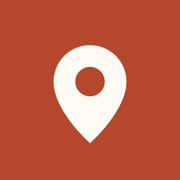
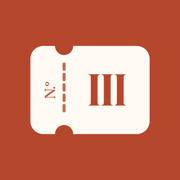
Pruebas 2026-10-24 14:38

Changed region(s): [[0.1667, 0.25, 0.8333, 0.8056]]

diff --git a/index.html b/index.html
@@ -516,12 +516,22 @@ const IC_LISTA='<svg viewBox="0 0 32 32" fill="none" stroke="currentColor" strok
 const IC_LUG='<svg viewBox="0 0 32 32" fill="none" stroke="currentColor" stroke-width="1.8" stroke-linecap="round" stroke-linejoin="round" aria-hidden="true"><path d="M4 12 16 4l12 8zM7 14v10M13 14v10M19 14v10M25 14v10M4 26h24"/></svg>';
 const IC_ESP='<svg viewBox="0 0 32 32" fill="none" stroke="currentColor" stroke-width="1.8" stroke-linecap="round" stroke-linejoin="round" aria-hidden="true"><path d="M16 4C9 4 4 9 4 15c0 5 3.5 8 8 8h2a2.5 2.5 0 0 1 2 4c-.5 1 .2 2 1.5 2C24 29 28 24 28 16 28 9 23 4 16 4z"/><circle cx="10.5" cy="14" r="1.4"/><circle cx="15" cy="10" r="1.4"/><circle cx="21" cy="11" r="1.4"/></svg>';
 const IC_PIN='<svg viewBox="0 0 24 24" fill="none" stroke="currentColor" stroke-width="1.9" stroke-linecap="round" stroke-linejoin="round" aria-hidden="true"><path d="M12 21s-7-6.2-7-11.5A7 7 0 0 1 19 9.5C19 14.8 12 21 12 21z"/><circle cx="12" cy="9.5" r="2.5"/></svg>';
+const IC_VIN='<svg viewBox="0 0 32 32" fill="none" stroke="currentColor" stroke-width="1.8" stroke-linecap="round" stroke-linejoin="round" aria-hidden="true"><circle cx="16" cy="16" r="11"/><circle cx="16" cy="16" r="3.2"/><path d="M8.5 12a9 9 0 0 1 5-3.800" opacity=".7"/></svg>';
+const IC_GAL='<svg viewBox="0 0 32 32" fill="none" stroke="currentColor" stroke-width="1.8" stroke-linecap="round" stroke-linejoin="round" aria-hidden="true"><rect x="5" y="6" width="22" height="20" rx="1.5"/><rect x="9" y="10" width="14" height="12"/><path d="M9 20l4.500-4.500 3 3 2.500-2.500 4 4"/></svg>';
+const IC_OBR='<svg viewBox="0 0 32 32" fill="none" stroke="currentColor" stroke-width="1.8" stroke-linecap="round" stroke-linejoin="round" aria-hidden="true"><rect x="8" y="5" width="16" height="12" rx="1"/><path d="M16 17V28M16 17l-6 11M16 17l6 11M12 10h5"/></svg>';
+const IC_FUN='<svg viewBox="0 0 32 32" fill="none" stroke="currentColor" stroke-width="1.8" stroke-linecap="round" stroke-linejoin="round" aria-hidden="true"><path d="M4 6h24"/><path d="M6 6c0 8-1 14-2 20h9c0-6 1-12 2-20M26 6c0 8 1 14 2 20h-9c0-6-1-12-2-20"/></svg>';
+const IC_CAR='<svg viewBox="0 0 32 32" fill="none" stroke="currentColor" stroke-width="1.8" stroke-linecap="round" stroke-linejoin="round" aria-hidden="true"><rect x="6" y="4" width="20" height="24" rx="1"/><rect x="9" y="7" width="14" height="18"/><path d="M12 12h8M12 16h8M12 20h5"/></svg>';
+const IC_JUK='<svg viewBox="0 0 32 32" fill="none" stroke="currentColor" stroke-width="1.8" stroke-linecap="round" stroke-linejoin="round" aria-hidden="true"><rect x="5" y="5" width="22" height="22" rx="6"/><path d="M9 11h14M9 16h14M9 21h14"/><circle cx="11" cy="11" r="1" fill="currentColor"/><circle cx="21" cy="16" r="1" fill="currentColor"/><circle cx="14" cy="21" r="1" fill="currentColor"/></svg>';
+const CART_SKIN={boleto:["Cartelera",null],vinilo:["Lado A","IC_VIN"],lienzo:["Galería","IC_GAL"],claro:["Obras","IC_OBR"],telon:["Funciones","IC_FUN"],afiche:["Carteles","IC_CAR"],jukebox:["Selección","IC_JUK"]};
+const ICS={IC_VIN,IC_GAL,IC_OBR,IC_FUN,IC_CAR,IC_JUK};
+const nomCart=()=>(CART_SKIN[state.skin]||CART_SKIN.boleto)[0];
+function icoCart(){ const n=(CART_SKIN[state.skin]||[])[1]; return n?ICS[n]:IC_LISTA; }
 function pintaTabs(){
   const nav=document.getElementById("tabs");
   if(!MAPA){ nav.hidden=true; return; }
   nav.hidden=false;
   nav.classList.add("conic");
-  nav.innerHTML=[["cartelera","Cartelera",IC_LISTA],["mapa","Mapa",IC_PIN],["lugares","Lugares",IC_LUG],["espacio","Mi espacio",IC_ESP]].map(([k,l,ic])=>`<button type="button" data-t="${k}"${state.tab===k?' aria-current="page"':""}>${ic}<span>${l}</span></button>`).join("");
+  nav.innerHTML=[["cartelera",nomCart(),icoCart()],["mapa","Mapa",IC_PIN],["lugares","Lugares",IC_LUG],["espacio","Mi espacio",IC_ESP]].map(([k,l,ic])=>`<button type="button" data-t="${k}"${state.tab===k?' aria-current="page"':""}>${ic}<span>${l}</span></button>`).join("");
   nav.querySelectorAll("button").forEach(b=>b.onclick=()=>irTab(b.dataset.t));
 }
 function irTab(t){
@@ -955,7 +965,7 @@ function pintaHero(){
   const h=document.getElementById("hero"), cab=document.getElementById("cab");
   const enCart=!MAPA||state.tab==="cartelera";
   let clave="", datos=null;
-  if(enCart){ const c=HERO_CAT[EF.cat]; if(c) datos=c; else if(state.skin==="vinilo") datos=["disco","Lado A","Cartelera"]; else if(state.skin==="claro") datos=["lienzo","Luz y sombra","Cartelera"]; else if(state.skin==="afiche") datos=["teatro","Gran temporada","Cartelera"]; else if(state.skin==="lienzo") datos=["lienzo","Esta semana","Cartelera"]; else if(state.skin==="telon") datos=["teatro","Temporada","Cartelera"]; }
+  if(enCart){ const c=HERO_CAT[EF.cat]; if(c) datos=c; else if(state.skin==="vinilo") datos=["disco","Cara A",nomCart()]; else if(state.skin==="claro") datos=["lienzo","Luz y sombra",nomCart()]; else if(state.skin==="afiche") datos=["teatro","Gran temporada",nomCart()]; else if(state.skin==="lienzo") datos=["lienzo","Esta semana",nomCart()]; else if(state.skin==="telon") datos=["teatro","Temporada",nomCart()]; }
   clave=datos?datos.join("|"):"";
   cab.classList.toggle("conhero",!!datos); h.hidden=!datos;
   if(clave===HERO_KEY) return; HERO_KEY=clave;
@@ -1105,7 +1115,7 @@ const MARCAS={
   monograma:(a,b)=>`<svg viewBox="0 0 120 120" aria-hidden="true"><circle cx="60" cy="60" r="46" fill="none" stroke="${a}" stroke-width="5"/><circle cx="60" cy="60" r="38" fill="none" stroke="${a}" stroke-width="1.5" stroke-dasharray="2 4"/><text x="45" y="77" text-anchor="middle" font-family="ui-serif,Georgia,serif" font-weight="700" font-size="50" fill="${a}">T</text><text x="76" y="80" text-anchor="middle" font-family="ui-serif,Georgia,serif" font-weight="700" font-size="44" fill="${a}" opacity=".85">L</text></svg>`,
   golpes:(a,b)=>`<svg viewBox="0 0 120 120" aria-hidden="true"><rect x="14" y="30" width="92" height="64" rx="13" fill="${a}"/><g fill="${b}"><rect x="28" y="62" width="10" height="20" rx="5"/><rect x="44" y="52" width="10" height="30" rx="5"/><rect x="60" y="42" width="10" height="40" rx="5"/></g><path d="M79 54a12 12 0 0 1 0 20" stroke="${b}" stroke-width="4" stroke-linecap="round" fill="none"/><path d="M89 46a22 22 0 0 1 0 36" stroke="${b}" stroke-width="3.5" stroke-linecap="round" fill="none" opacity=".7"/></svg>`
 };
-const MARCA_SKIN={boleto:"boleto",vinilo:"golpes",jukebox:"golpes",lienzo:"arco",claro:"monograma",afiche:"monograma",telon:"telon"};
+const MARCA_SKIN={};   // logo oficial único: Boleto III en todos los skins
 function pintaMarca(){
   const k=MARCA_SKIN[state.skin]||"boleto", mk=document.getElementById("mk"); if(!mk) return;
   mk.innerHTML=MARCAS[k](css("--acc")||"#B4472C", css("--bg")||"#F5EFE4");
@@ -1228,7 +1238,7 @@ function render(){
   EF=efectivos();
   { const tb=MAPA?state.tab:"cartelera";
     document.getElementById("semana").textContent=tb==="lugares"?"Recintos con función próxima":tb==="mapa"?"Panoramas cerca de ti":"Semana del "+fmt(HOY)+" al "+fmt(sumar(HOY,6));
-    document.getElementById("titulo").textContent=tb==="lugares"?"Dónde hay función":tb==="mapa"?"Mapa":tb==="espacio"?"Mi espacio":"Cartelera"; if(tb==="espacio") document.getElementById("semana").textContent="Solo en este dispositivo"; }
+    document.getElementById("titulo").textContent=tb==="lugares"?"Dónde hay función":tb==="mapa"?"Mapa":tb==="espacio"?"Mi espacio":nomCart(); if(tb==="espacio") document.getElementById("semana").textContent="Solo en este dispositivo"; }
   pintaCuando(); pintaTipos(); pintaCerca(); pintaTabs(); pintaToks(); pintaGustos(); pintaFranjas(); pintaVistas();
   document.getElementById("vistas").hidden=!(state.tab==="cartelera"||!MAPA);
   chips(document.getElementById("precio"),[["todos","Todos"],["gratis","Gratis"],["pago","De pago"]],()=>state.precio,k=>state.precio=k);
